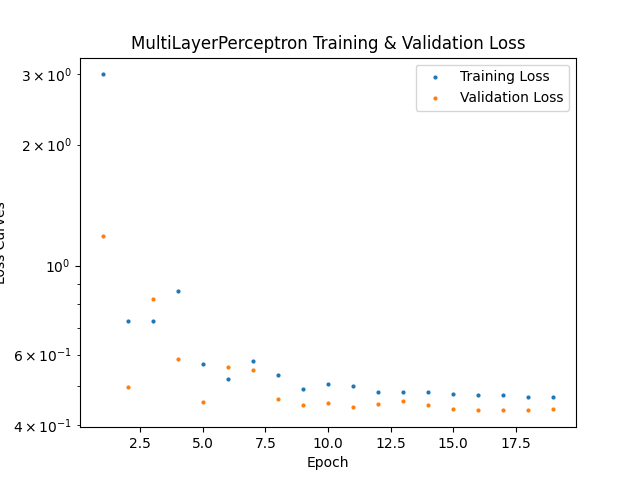
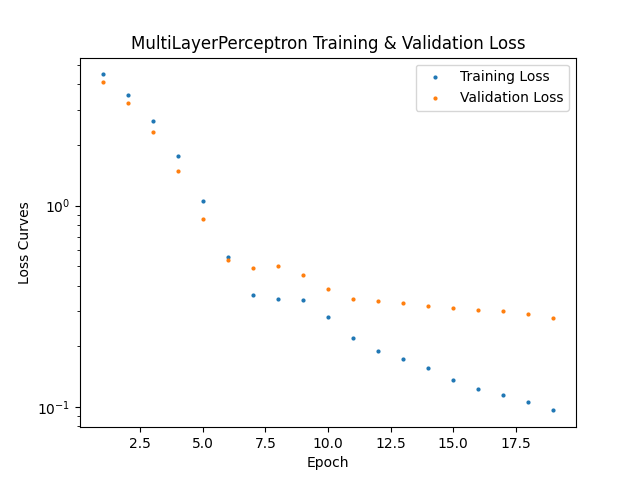
resolved shitty parity plot for MLP. Issue was non-normalized data

diff --git a/P1/P1.py b/P1/P1.py
@@ -10,14 +10,11 @@ import torch
 from torch.utils.data import TensorDataset, DataLoader
 import torch.nn as nn
 from sklearn.neighbors import KNeighborsRegressor
-# TensorFlow/Keras imports removed because this script uses PyTorch for models.
-# If you need Keras functionality, install TensorFlow and uncomment the lines below.
-# from tensorflow.keras.models import Sequential
-# from tensorflow.keras.layers import Flatten, Dense
 
 
 
-#------------------- DOWNLOADS & SETUP ------------------------------------------------
+
+#------------------- DOWNLOADS & SETUP ---------------------------------------------------------------------------
 # Downloading labels:
 path_labels = "./data/labels.fits"
 allstar = fits.open(path_labels) # loads star database data
@@ -54,7 +51,13 @@ test_labels = RGB_labels[I_test]
 train_features = np.load('./data/train_features.npy')
 valid_features = np.load('./data/valid_features.npy')
 test_features = np.load('./data/test_features.npy')
-#----------------------------------------------------------------------------------------------------------------
+# Normalizing/standardizing features:
+mu = train_features.mean(axis=0, keepdims=True)
+sig = train_features.std(axis=0, keepdims=True) + 1e-8
+train_features = (train_features - mu) / sig
+valid_features = (valid_features - mu) / sig
+test_features  = (test_features  - mu) / sig
+#-------------------------------------------
   
 
 
@@ -63,7 +66,9 @@ test_features = np.load('./data/test_features.npy')
 
 
 
-#------------------- K NEAREST NEIGHBORS ------------------------------------------
+
+
+#------------------- K NEAREST NEIGHBORS --------------------------------------------------------------------------
 def KNN(k_range: list[int]):
     """
     K-Nearest Neighbors Algorithm. Operates differently than 
@@ -148,20 +153,20 @@ x_train = torch.tensor(train_features, dtype=torch.float32) # (N, d)
 y_np = np.array(train_labels["LOGG"], dtype=np.float32)  # forces native float32
 y_train = torch.from_numpy(y_np).view(-1, 1)
 train_batch_size = int(N_train/4)
-train_loader = DataLoader(TensorDataset(x_train, y_train), batch_size=train_batch_size, shuffle=True)  # batches
+train_loader = DataLoader(TensorDataset(x_train, y_train), batch_size=train_batch_size, shuffle=True) 
     
 x_valid = torch.tensor(valid_features, dtype=torch.float32) # (N, d)
 y_np = np.array(valid_labels["LOGG"], dtype=np.float32)  # forces native float32
 y_valid = torch.from_numpy(y_np).view(-1, 1)
 valid_batch_size = int(N_valid/4)
-valid_loader = DataLoader(TensorDataset(x_valid, y_valid), batch_size=valid_batch_size, shuffle=False)  # batches
+valid_loader = DataLoader(TensorDataset(x_valid, y_valid), batch_size=valid_batch_size, shuffle=False)  
     
 x_test = torch.tensor(test_features, dtype=torch.float32) # (N, d)
 y_np = np.array(test_labels["LOGG"], dtype=np.float32)  # forces native float32
 y_test = torch.from_numpy(y_np).view(-1, 1)
 test_batch_size = int(N_test/4)
-test_loader = DataLoader(TensorDataset(x_test, y_test), batch_size=test_batch_size, shuffle=False)  # batches
-#-----------------------------------------------------------------------------------------------------------------
+test_loader = DataLoader(TensorDataset(x_test, y_test), batch_size=test_batch_size, shuffle=False)  
+#-------------------------------------------------------------------------------------------------
   
 
 
@@ -185,7 +190,7 @@ def TVT(
     both, train and validation loss plotting, test function, 
     test data parity plot.
     """
-    #---------------------------------------------------------------
+    #-----------
     def train():
         """
         Uses batches to minimize training loss.
@@ -218,7 +223,7 @@ def TVT(
     #-------------------------------------------------------------------
 
 
-    #---------------------------------------------------------------
+    #--------------
     def validate():
         """
         Runs validation data thru network using training parameters.
@@ -269,7 +274,7 @@ def TVT(
                 break
     
         N_epochs += 1
-    #------------------------------------------------------
+    #----------------
 
 
     #---------------------------------------
@@ -319,7 +324,7 @@ def TVT(
     plt.plot([mn, mx], [mn, mx])
     plt.savefig(f'./P1/{model_name}_parity.png')
     print(f'{model_name} average test loss is {loss_test:.5}')
-    #------------------------------------------------
+    #---------------------------------------------------------
 
 
 
@@ -327,7 +332,9 @@ def TVT(
 
 
 
-#------------------- LINEAR REGRESSION ------------------------------------------
+
+
+#------------------- LINEAR REGRESSION ---------------------------------------------------------------------------
 def linear_regression(epochs, delta_threshold, learning_rate):
     #-------------------------------------------------
     # Generating linear regression class from PyTorch:
@@ -341,7 +348,7 @@ def linear_regression(epochs, delta_threshold, learning_rate):
             return self.lin(x)
     #-------------------------
 
-    #-----------------------
+    #-----------------
     # Regression prep:
     model = LinearRegression(input_dim=x_train.shape[1], output_dim=1)
 
@@ -356,17 +363,16 @@ def linear_regression(epochs, delta_threshold, learning_rate):
         valid_loader = valid_loader,
         test_loader = test_loader
     )
-    #------------------------------------------------------------------------
-
-
-    
+    #----------------------------
 
     
 
+    
 
 
 
-#------------------- MULTI-LAYER PERCEPTRON ------------------------------------
+
+#------------------- MULTI-LAYER PERCEPTRON ---------------------------------------------------------------------
 def MLP(epochs, delta_threshold, learning_rate):
     #----------------------
     # Generating MLP class:
@@ -425,13 +431,13 @@ def MLP(epochs, delta_threshold, learning_rate):
         valid_loader = valid_loader,
         test_loader = test_loader
     )
-    #--------------------------------------------------------------------------------
+    #----------------------------
 
 
 
 
 
-#------------------- LR & MLP FUNCTION CALLS  ------------------------------------
+#------------------- LR & MLP FUNCTION CALLS  --------------------------------------------------------------------
 # Running linear regression ML:
 #linear_regression(100, 1e-3, 1e-4)
     
